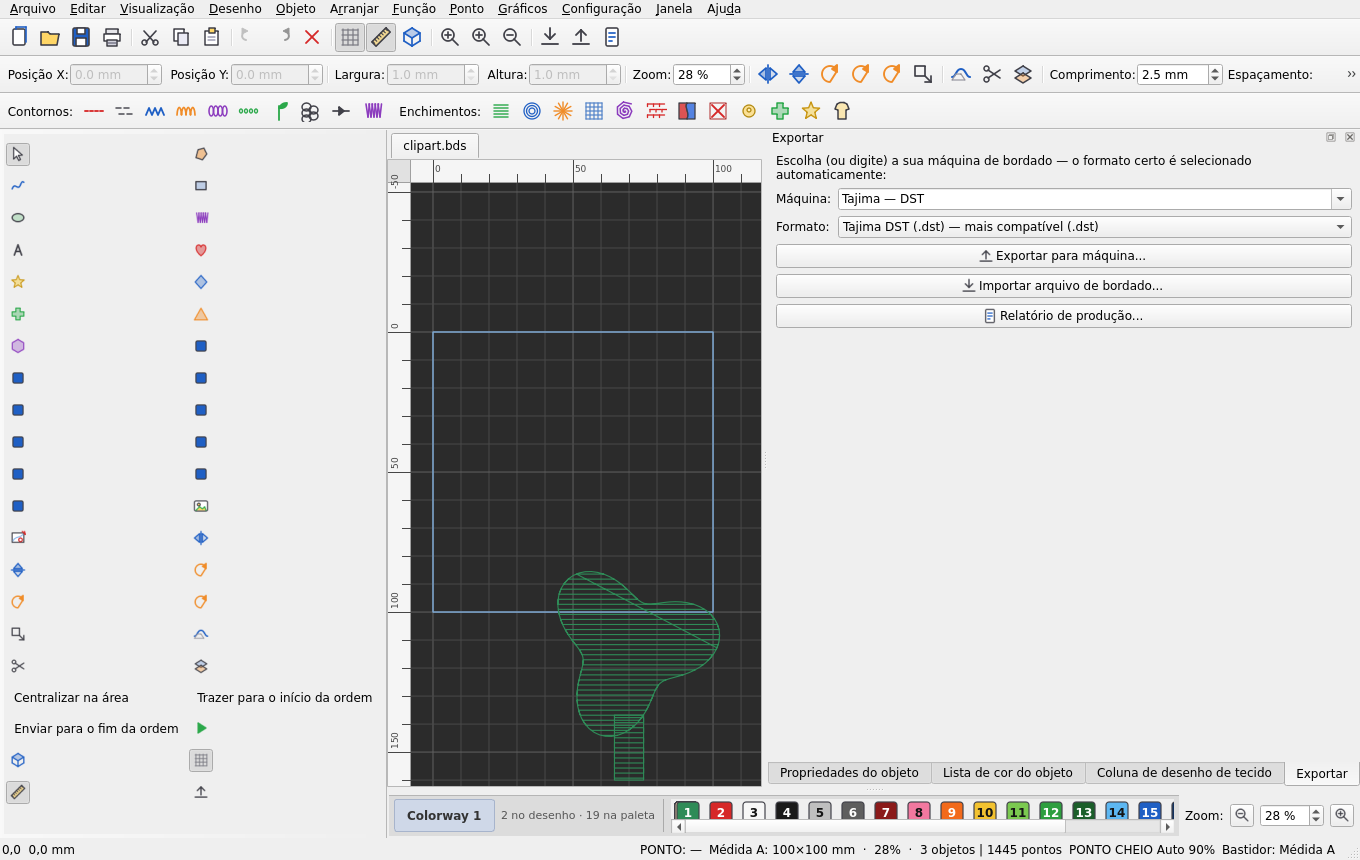
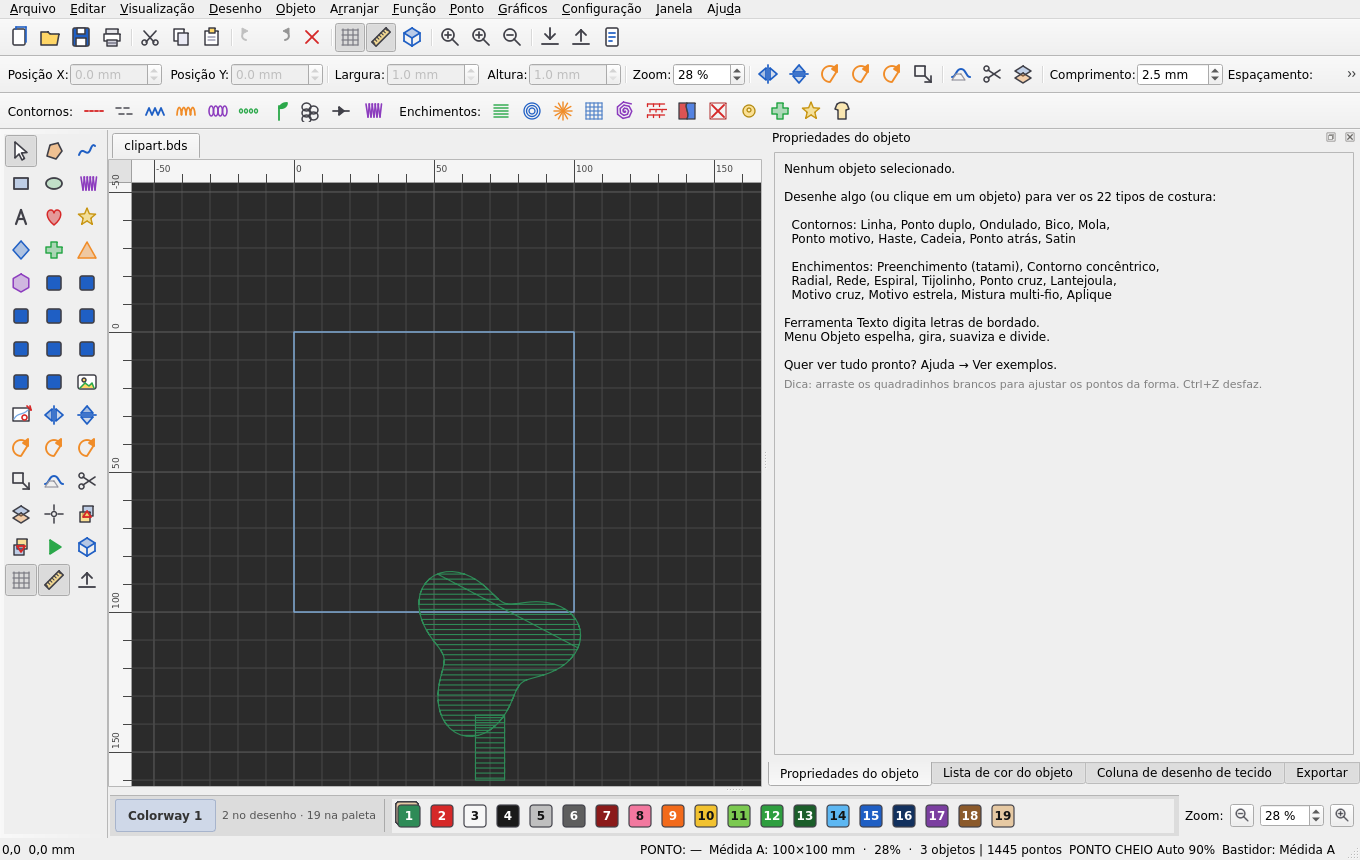
v1.10.1: barra de ferramentas compacta (3 colunas, ícones 28px)
- Ferramentas à esquerda agora em 3 colunas densas como nos programas
  profissionais: ícones 28px colados (1px de espaçamento), sem esticar
  as linhas (grade com tamanho fixo, ancorada no topo)
- Novos ícones para Centralizar/Ordem de costura (antes apareciam como
  botões de texto na grade): center, front, back
- Nenhum botão sem ícone (verificado em teste)

diff --git a/BordadoStudio/bordadostudio/main_window.py b/BordadoStudio/bordadostudio/main_window.py
@@ -391,19 +391,19 @@ class MainWindow(QMainWindow):
                                shortcut=QKeySequence("Ctrl+Shift+L"),
                                triggered=self.clipart_dialog)
 
-        self.act_center = QAction("Centralizar na área", self,
-                                  shortcut=QKeySequence("Ctrl+Shift+C"),
-                                  triggered=self.obj_center)
+        self.act_center = act("center", "Centralizar na área", self,
+                              shortcut=QKeySequence("Ctrl+Shift+C"),
+                              triggered=self.obj_center)
         self.act_center_h = QAction("Centralizar horizontalmente", self,
                                     triggered=self.obj_center_h)
         self.act_center_v = QAction("Centralizar verticalmente", self,
                                     triggered=self.obj_center_v)
-        self.act_to_front = QAction("Trazer para o início da ordem", self,
-                                    shortcut=QKeySequence("Ctrl+Shift+]"),
-                                    triggered=self.obj_to_front)
-        self.act_to_back = QAction("Enviar para o fim da ordem", self,
-                                   shortcut=QKeySequence("Ctrl+Shift+["),
-                                   triggered=self.obj_to_back)
+        self.act_to_front = act("front", "Trazer para o início da ordem", self,
+                                shortcut=QKeySequence("Ctrl+Shift+]"),
+                                triggered=self.obj_to_front)
+        self.act_to_back = act("back", "Enviar para o fim da ordem", self,
+                               shortcut=QKeySequence("Ctrl+Shift+["),
+                               triggered=self.obj_to_back)
 
         self.act_simulate = act("simulate", "Simular costura", self,
                                 shortcut=QKeySequence("F5"),
@@ -731,16 +731,19 @@ class MainWindow(QMainWindow):
             tb3.addAction(self._stitch_actions[k])
         self.addToolBar(tb3)
 
-        # ---- coluna esquerda: ferramentas + ações (grade 2 colunas)
+        # ---- coluna esquerda: 3 colunas compactas (estilo profissional)
         left = QToolBar("Ferramentas", self)
         left.setOrientation(Qt.Vertical)
         left.setMovable(False)
-        left.setIconSize(QSize(22, 22))
-        from PySide6.QtWidgets import QGridLayout, QToolButton
+        left.setIconSize(QSize(28, 28))
+        from PySide6.QtWidgets import (QGridLayout, QSizePolicy,
+                                       QToolButton)
         grade = QWidget()
         gl = QGridLayout(grade)
-        gl.setContentsMargins(2, 2, 2, 2)
-        gl.setSpacing(2)
+        gl.setContentsMargins(1, 1, 1, 1)
+        gl.setHorizontalSpacing(1)
+        gl.setVerticalSpacing(1)
+        gl.setSizeConstraint(QGridLayout.SetFixedSize)
         acoes = ([self._tool_actions[k] for k, *_ in TOOLS] +
                  [self._shape_actions[k] for k in self._shape_actions] +
                  [self.act_clipart, self.act_digitize,
@@ -757,12 +760,21 @@ class MainWindow(QMainWindow):
             b.setDefaultAction(a)
             b.setAutoRaise(True)
             b.setToolButtonStyle(Qt.ToolButtonIconOnly)
-            gl.addWidget(b, i // 2, i % 2)
+            b.setIconSize(QSize(28, 28))
+            b.setFixedSize(32, 32)
+            b.setSizePolicy(QSizePolicy.Fixed, QSizePolicy.Fixed)
+            gl.addWidget(b, i // 3, i % 3)
             self.left_buttons.append(b)
+        coluna = QWidget()
+        cv = QVBoxLayout(coluna)
+        cv.setContentsMargins(0, 0, 0, 0)
+        cv.setSpacing(0)
+        cv.addWidget(grade, 0, Qt.AlignTop | Qt.AlignLeft)
+        cv.addStretch(1)
         esq = QScrollArea()
-        esq.setWidgetResizable(True)
+        esq.setWidgetResizable(False)
         esq.setFrameShape(QScrollArea.NoFrame)
-        esq.setWidget(grade)
+        esq.setWidget(coluna)
         left.addWidget(esq)
         self.addToolBar(Qt.LeftToolBarArea, left)
 

diff --git a/BordadoStudio/bordadostudio/icons.py b/BordadoStudio/bordadostudio/icons.py
@@ -584,6 +584,29 @@ def _draw(name: str, p: QPainter, s: float):
             r = 1.2 + 8.2 * t
             path.lineTo(P(11 + _m.cos(a) * r, 11 + _m.sin(a) * r))
         p.drawPath(path)
+    elif name == "center":
+        p.setPen(_pen(INK, 1.5))
+        p.drawEllipse(QRectF(P(8.5, 8.5), P(13.5, 13.5)))
+        p.drawLine(P(11, 2), P(11, 7))
+        p.drawLine(P(11, 15), P(11, 20))
+        p.drawLine(P(2, 11), P(7, 11))
+        p.drawLine(P(15, 11), P(20, 11))
+    elif name == "front":
+        p.setPen(_pen(INK, 1.5))
+        p.setBrush(QBrush(QColor(31, 95, 196, 60)))
+        p.drawRect(QRectF(P(7, 3), P(17, 13)))
+        p.setBrush(QBrush(QColor(255, 214, 102, 170)))
+        p.drawRect(QRectF(P(4, 9), P(14, 19)))
+        p.setPen(_pen(RED, 1.8))
+        p.drawPolygon([P(11, 8), P(15, 14), P(7, 14)])
+    elif name == "back":
+        p.setPen(_pen(INK, 1.5))
+        p.setBrush(QBrush(QColor(255, 214, 102, 170)))
+        p.drawRect(QRectF(P(7, 3), P(17, 13)))
+        p.setBrush(QBrush(QColor(31, 95, 196, 60)))
+        p.drawRect(QRectF(P(4, 9), P(14, 19)))
+        p.setPen(_pen(RED, 1.8))
+        p.drawPolygon([P(11, 16), P(7, 10), P(15, 10)])
     else:  # fallback: quadrado colorido
         p.setPen(_pen(INK, 1.6))
         p.setBrush(QBrush(ACCENT))

diff --git a/BordadoStudio/bordadostudio/__init__.py b/BordadoStudio/bordadostudio/__init__.py
@@ -4,7 +4,7 @@ Criado do zero para este projeto. Unidade interna: 1 unidade = 0,1 mm
 (mesma unidade usada pelos formatos de bordado).
 """
 
-__version__ = "1.10.0"
+__version__ = "1.10.1"
 APP_NAME = "BordadoStudio"
 
 # Unidades de bordado: 1 unidade = 0,1 mm

diff --git a/BordadoStudio/README.md b/BordadoStudio/README.md
@@ -81,7 +81,7 @@ Ponto cruz · Lantejoula · Motivo cruz · Motivo estrela · Aplique
 
 ## 🧰 42 ferramentas e busca da máquina de bordado (v1.10)
 
-- **42 botões funcionais na barra de ferramentas** (à esquerda, 2 colunas):
+- **42 botões funcionais na barra de ferramentas** (à esquerda, 3 colunas compactas, ícones 28 px como nos programas profissionais):
   todas as ferramentas de desenho (seleção, preenchimento, linha, retângulo,
   elipse, satin, texto), 16 formas arrastáveis (coração, estrela, losango,
   cruz, triângulo, hexágono, pentágono, octógono, seta, lua, flor, nuvem,
